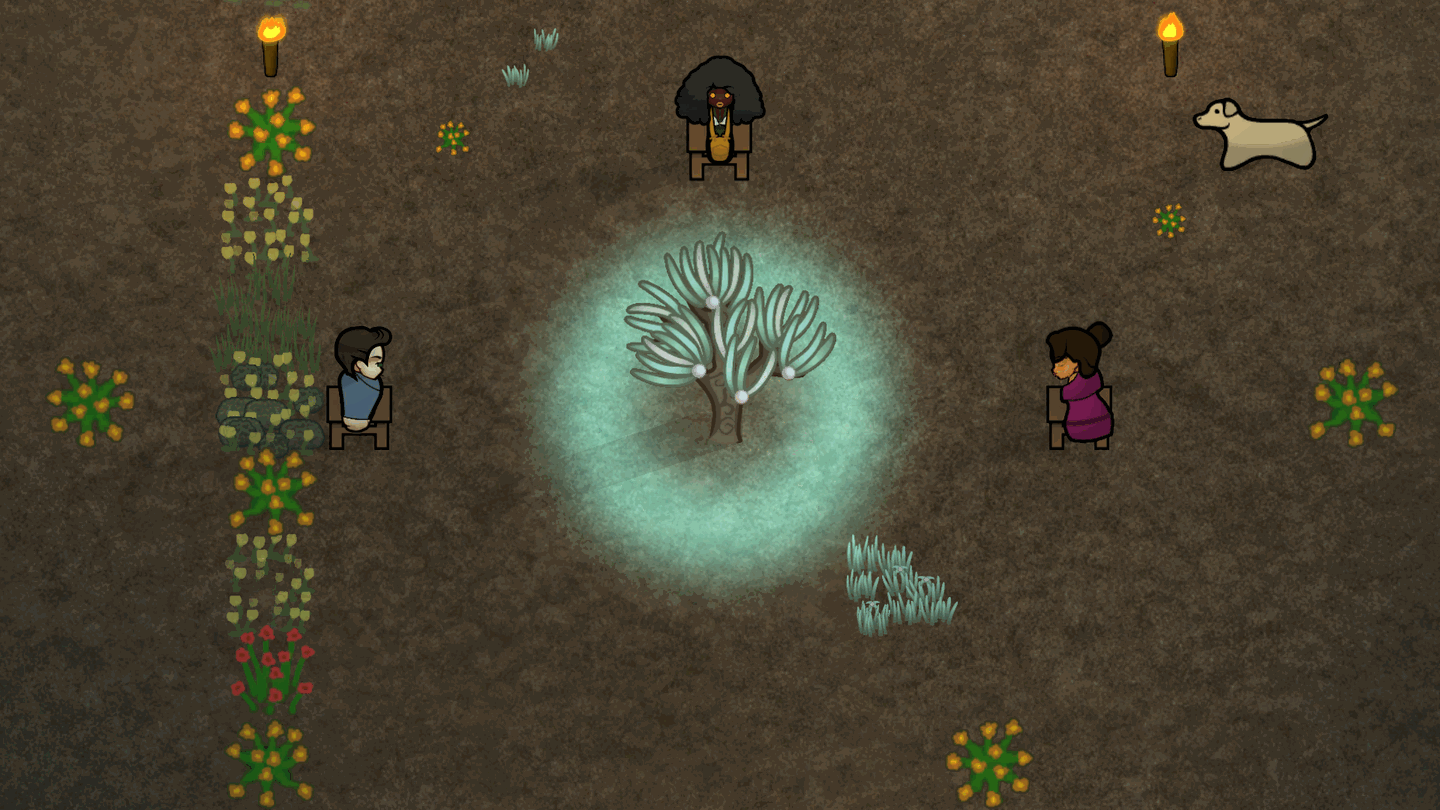
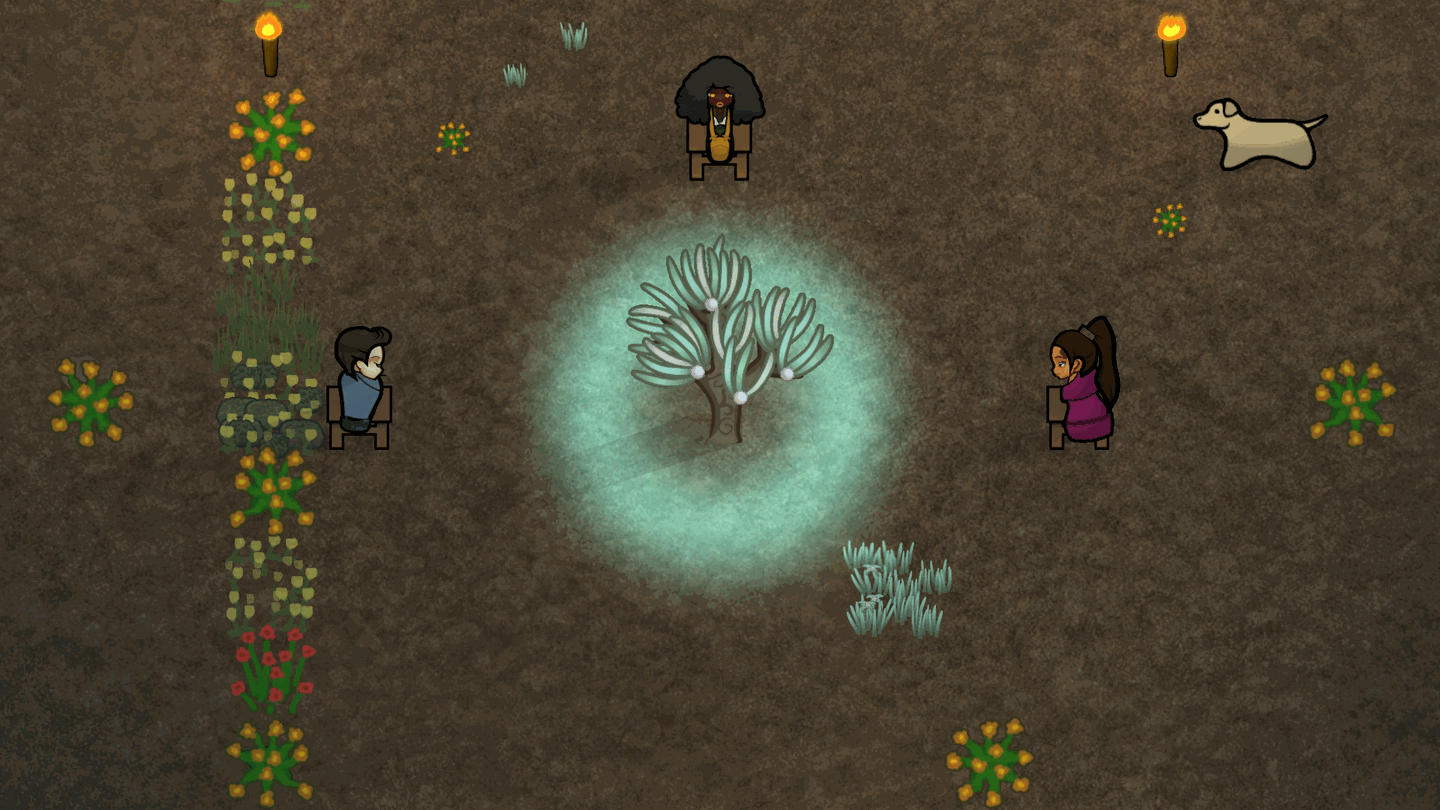
Gallery E accepted: 5-dusk from ticket 4667 (Soren shirt drawn), STATUS

diff --git a/STATUS.md b/STATUS.md
@@ -24,8 +24,8 @@ echo_review_sha: 70f6c760c3663834a2b800302ae81a480e8c9416
 social_preview_sha256: ace9cafd1a9e02e5d3934460e3776f096099d0f37820a70233c96ead0eb6bbd1
 remaining:
   - open 2026-11-20 (protocols read f970908e..HEAD, GALLERY-PROPS rule 3, checked at the passage to mountPreview): `ATTRIBUTION.md` has no section "Gallery set" yet; before the passage list there (name, author, Workshop id) every external mod the final scenes really use (hair, clothes, face and body mods of the gallery DepMaps `wsl-deps.gallery.map` and `wsl-deps.gallery-e.map`, minus the dropped Facial Animation eyes mod), credit in the Steam description when directly tied or when there is room, and in `WORKSHOP_COMMENTS.md` if the mod keeps one
-  - open 2026-11-22 (ticket 046d GREEN but E REDO again, capture opened): Soren BARE TORSO still; `[render-rebuilt] Soren: worn 1 (VAE_Apparel_Trousers)` while the clothes step had logged worn 2: the shirt `LisaWork_ApparelCollaredShirt` was dropped after dressing (saved apparel policy refuses it; NPT step `the colonist "X" follows an apparel policy that allows everything` exists for that); step added for Soren and Miel in E (before dressing), run folder gallery-e2 deleted, E refiled as ticket 4667 (label "gallery E alone, apparel policy allows everything", evidence Tests/Pickle/Inbox/gallery-e3, filter 05-workshop-captures::dusk, DepMap wsl-deps.gallery.map); on RUN_DONE read `[render-rebuilt]` (worn 2) and open the capture; B green runs kept the shirt by timing, so the same step may be added to B if a B replay ever shows a bare torso
-  - open 2026-11-22 (gallery state, session verdict, replaces the dated lines of 2026-11-19 to 2026-11-22): finals accepted with subtitles burned and clean originals (1440 x 810, 256 colours): `1-dawn` (A, Nelim canon Roo_HD_Hair_Highpony reads as a top knot from the front, set by the step, not a defect), `4-noon` (B, ticket 8fd8: ring of three, trousers and shirt drawn, ponytail), `6-night` (F); `5-dusk` (E) is the old image until ticket 4667 is green; the scene B `sit` failure of tickets 3104 and de21 (same scenario version, red twice then green 8fd8) is an unexplained flake, TEMP end-condition log never fired and was reverted; owner review of 2026-11-22 (NOT a validation, `gallery_validated_sha` absent): Nelim hair in 1 and 6, Soren bare bottom and wrong faces and eyes in 4 and 5; 4 and 1, 6 are now redone, 5 pending; faces and eyes (Soren, Miel) still show the look without the dropped eyes mod; gallery hash not recomputed (`Get-GalleryHash.ps1` errored)
+  - done 2026-11-22 (ticket 4667 GREEN, E ACCEPTED, session verdict): `5-dusk.png` final replaced (clean original in Art/Gallery-clean, 1440 x 810, 256 colours; subtitle burned, line unchanged); `[render-rebuilt] Soren: worn 2, ApparelBody children 2`: the shirt was dropped by the saved apparel policy before, fixed by the step `follows an apparel policy that allows everything` (Soren, Miel); run folder deleted; A, B, E, F finals now all redone; open: faces and eyes plan (PiT), owner review of the whole gallery
+  - open 2026-11-22 (gallery state, session verdict, replaces the dated lines of 2026-11-19 to 2026-11-22): finals accepted with subtitles burned and clean originals (1440 x 810, 256 colours): `1-dawn` (A, Nelim canon Roo_HD_Hair_Highpony reads as a top knot from the front, set by the step, not a defect), `4-noon` (B, ticket 8fd8: ring of three, trousers and shirt drawn, ponytail), `6-night` (F); `5-dusk` (E, ticket 4667: Soren shirt and trousers drawn); the scene B `sit` failure of tickets 3104 and de21 (same scenario version, red twice then green 8fd8) is an unexplained flake, TEMP end-condition log never fired and was reverted; owner review of 2026-11-22 (NOT a validation, `gallery_validated_sha` absent): Nelim hair in 1 and 6, Soren bare bottom and wrong faces and eyes in 4 and 5; 1, 4, 5, 6 are now redone; faces and eyes (Soren, Miel) still show the look without the dropped eyes mod; gallery hash not recomputed (`Get-GalleryHash.ps1` errored)
   - open 2026-11-22 (eyes plan, PiT): PiT has no step tolerating a Log.Error and wants the exact Player.log line of `sd.fa.movingvanillaeyes` (3753978140): refile one scene once with the mod back (copy of `wsl-deps.gallery.map` plus that id) to capture the line and send it to PiT with 3 stack lines; cheap fix first: add `Nelim's Pickle Tools: the memory thoughts of "Soren" are cleared` (and "Nelim") after Soren exists in scene B, before dressing (cause: a thought with an out-of-range stage in Thought.get_CurStage; the memory-thoughts clear steps already exist in B and E, so the error may persist: send the line); then rescore and resubtitle B and E; the mod tree stays untouched while a ticket runs
   - open: protocols read 2026-11-18 (f8fee9c): when all gallery captures are candidates (4 or more at score-gallery), run `rate-gallery` itself with the Skill tool (rule of 2026-11-19, AUDIT 9.e bis, GALLERY.md), no question to the owner; Preview at mountPreview uses the gallery block with `Art/Gallery-clean/` originals (STYLE_RIMWORLD.md)
   - open: 1.7 diagnostic closed 2026-11-17 (first run ff31: 18 of 24, six reds; cause = spawn cell of the plain `exists` step, not the mod, not 1.7; fixed by PiT step `exists near (x, z)`, 38f99e28; replays 7409 and b702 green, 0de3 green after the test-side fix);
